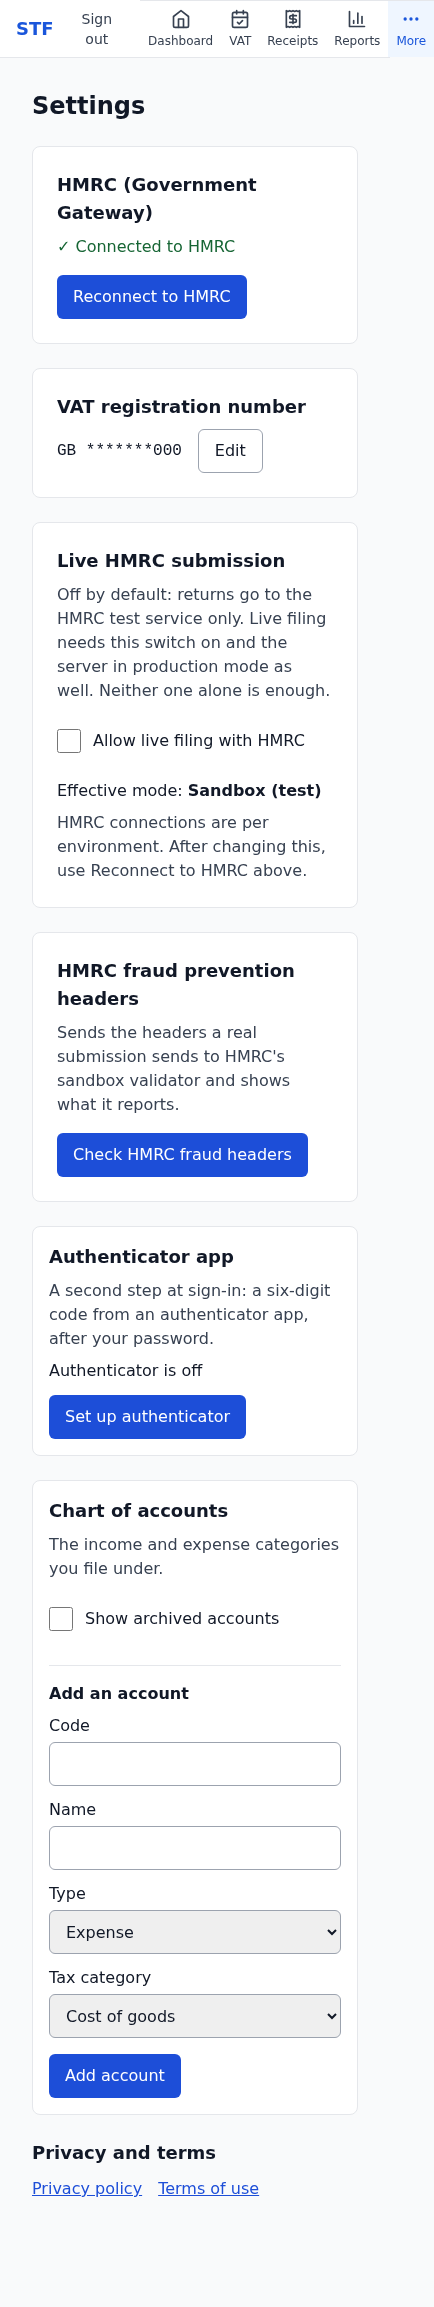
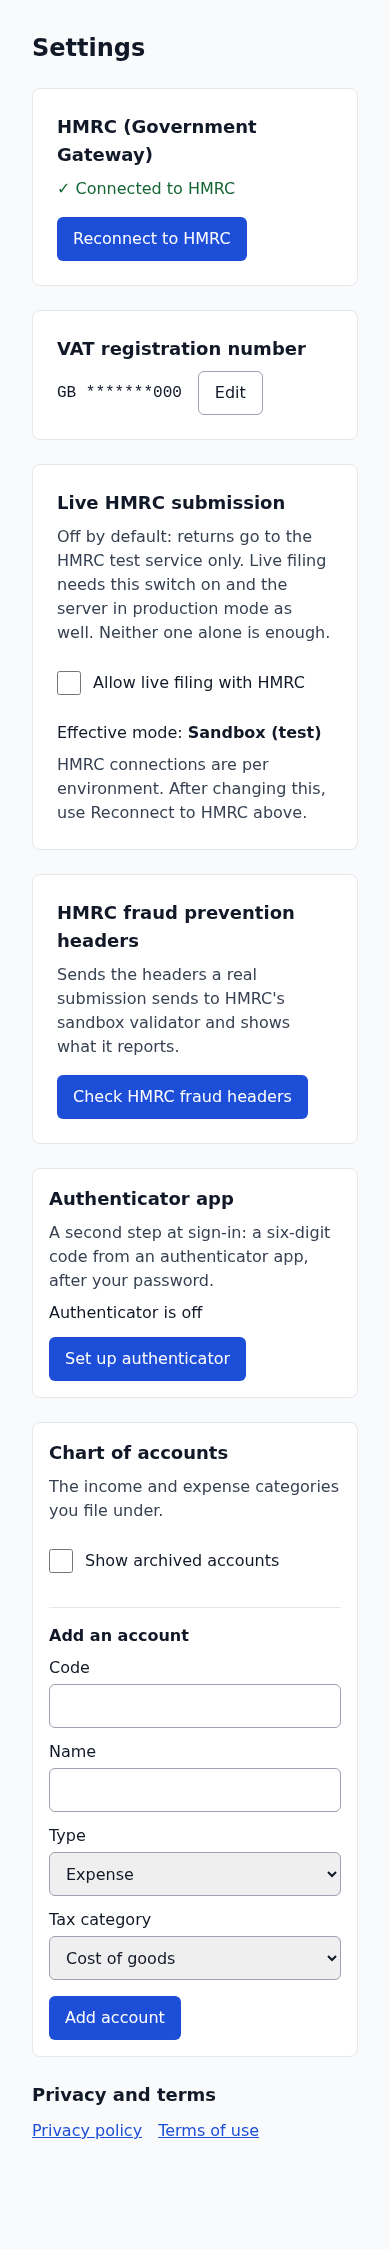
STF-90: recapture 390 px screenshots at true width, drop duplicate copies

diff --git a/e2e/journey.spec.ts b/e2e/journey.spec.ts
@@ -88,7 +88,7 @@ async function openVatReview(page: Page) {
 // Mock mode only: it turns the second factor on and signs out, which the read-only deployed journey must never do.
 test('owner sets up the authenticator, signs out, and signs back in with password then code', async ({ page }) => {
   test.skip(!mocked, 'Writes settings and signs out, so it only runs against the mock (JOURNEY_MOCK=1)');
-  const evidenceDir = path.join('docs', 'screenshots', 'stf-90');
+  const evidenceDir = path.join('browser-evidence', 'STF-90');
   mkdirSync(evidenceDir, { recursive: true });
   await mockApi(page, ownerPassword!);
 
@@ -98,9 +98,11 @@ test('owner sets up the authenticator, signs out, and signs back in with passwor
     const original = page.viewportSize();
     for (const width of [1440, 390]) {
       await page.setViewportSize({ width, height: 900 });
-      // A full-page capture paints fixed bars at the viewport offset, mid-page over the content being shown.
-      await page.addStyleTag({ content: '.sticky, .fixed { position: static !important; }' });
-      await page.screenshot({ path: path.join(evidenceDir, `${String(stepNumber).padStart(2, '0')}-${name}-${width}.png`), fullPage: true });
+      // A full-page capture paints the sticky header and fixed tab bar at the viewport offset, mid-page over the content being shown.
+      // Hiding them keeps the page at the real viewport width; making it static puts both bars in one row and widens the page.
+      const hideFixedBars = await page.addStyleTag({ content: '.sticky, .fixed { display: none !important; }' });
+      await page.screenshot({ path: path.join(evidenceDir, `${String(stepNumber).padStart(2, '0')}-${name}-${width}-light.png`), fullPage: true });
+      await hideFixedBars.evaluate((node) => node.remove());
     }
     if (original) await page.setViewportSize(original);
   }
